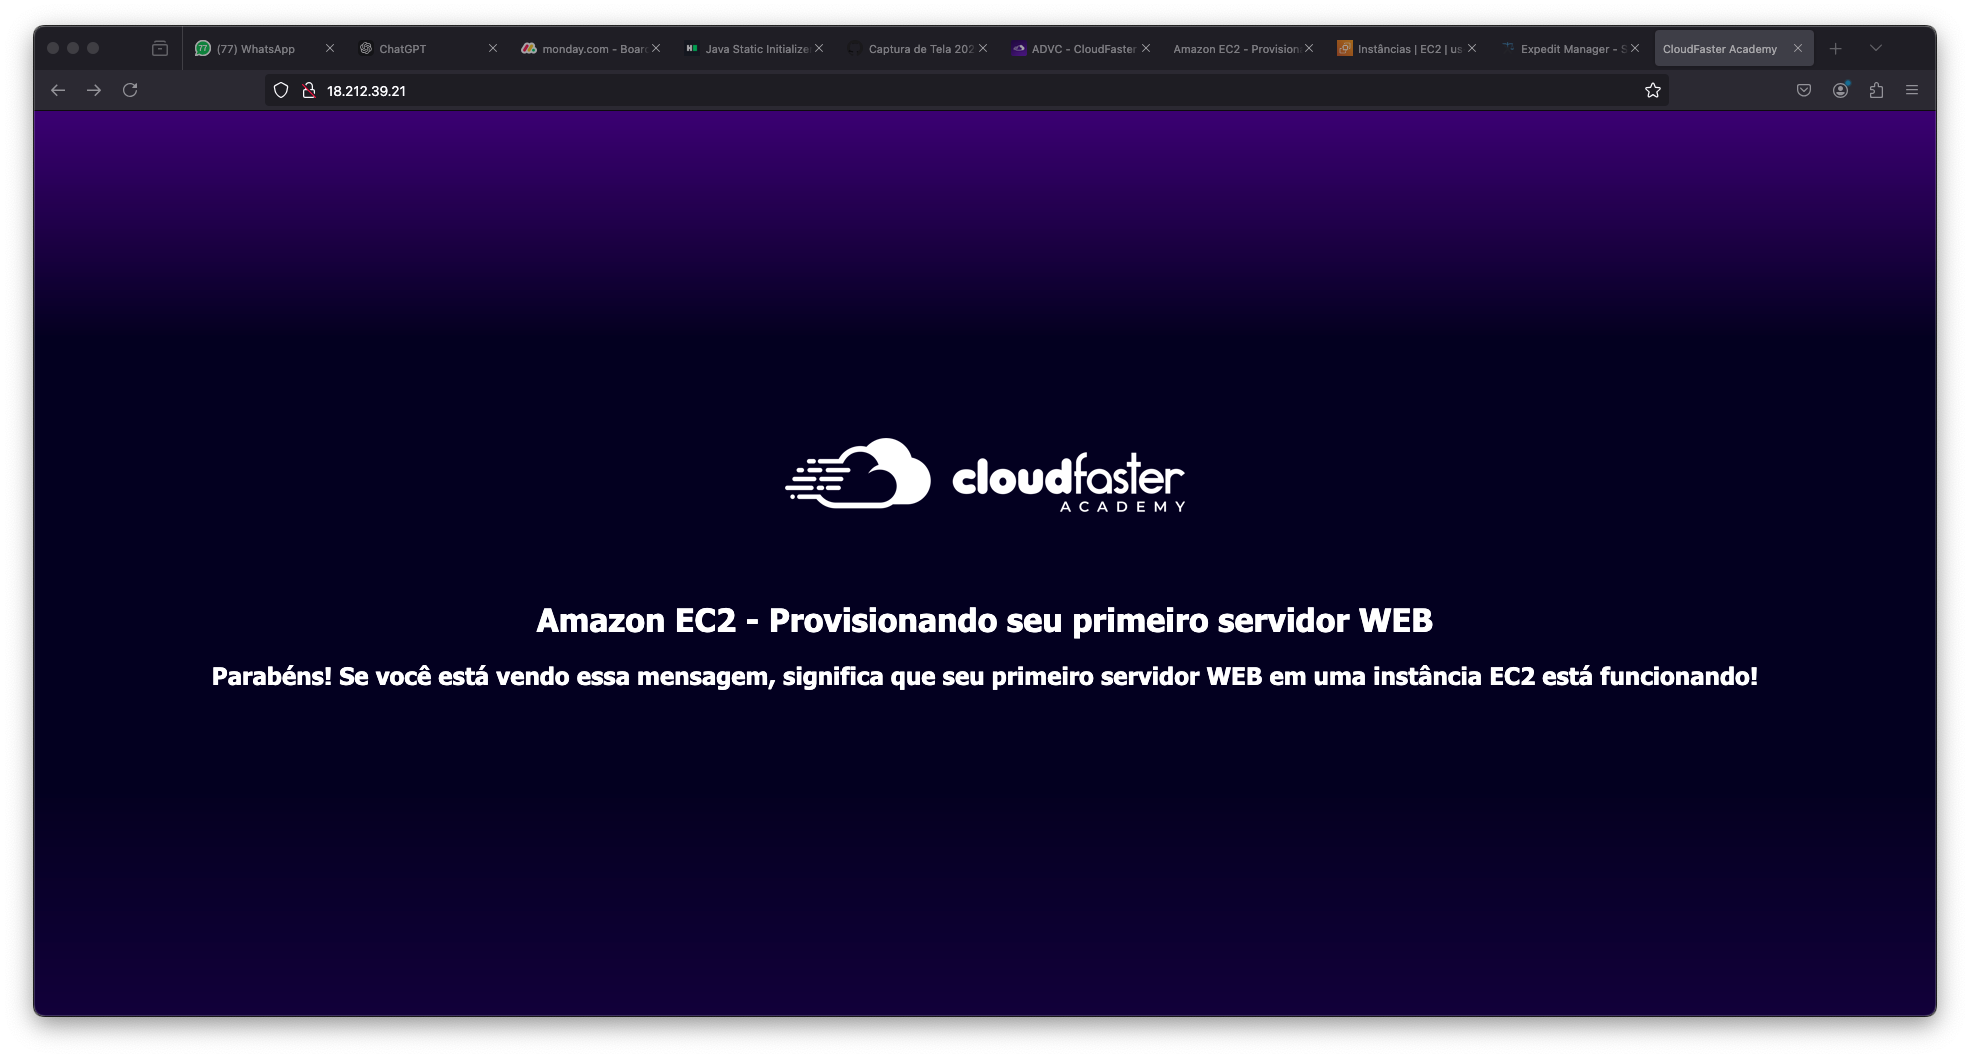
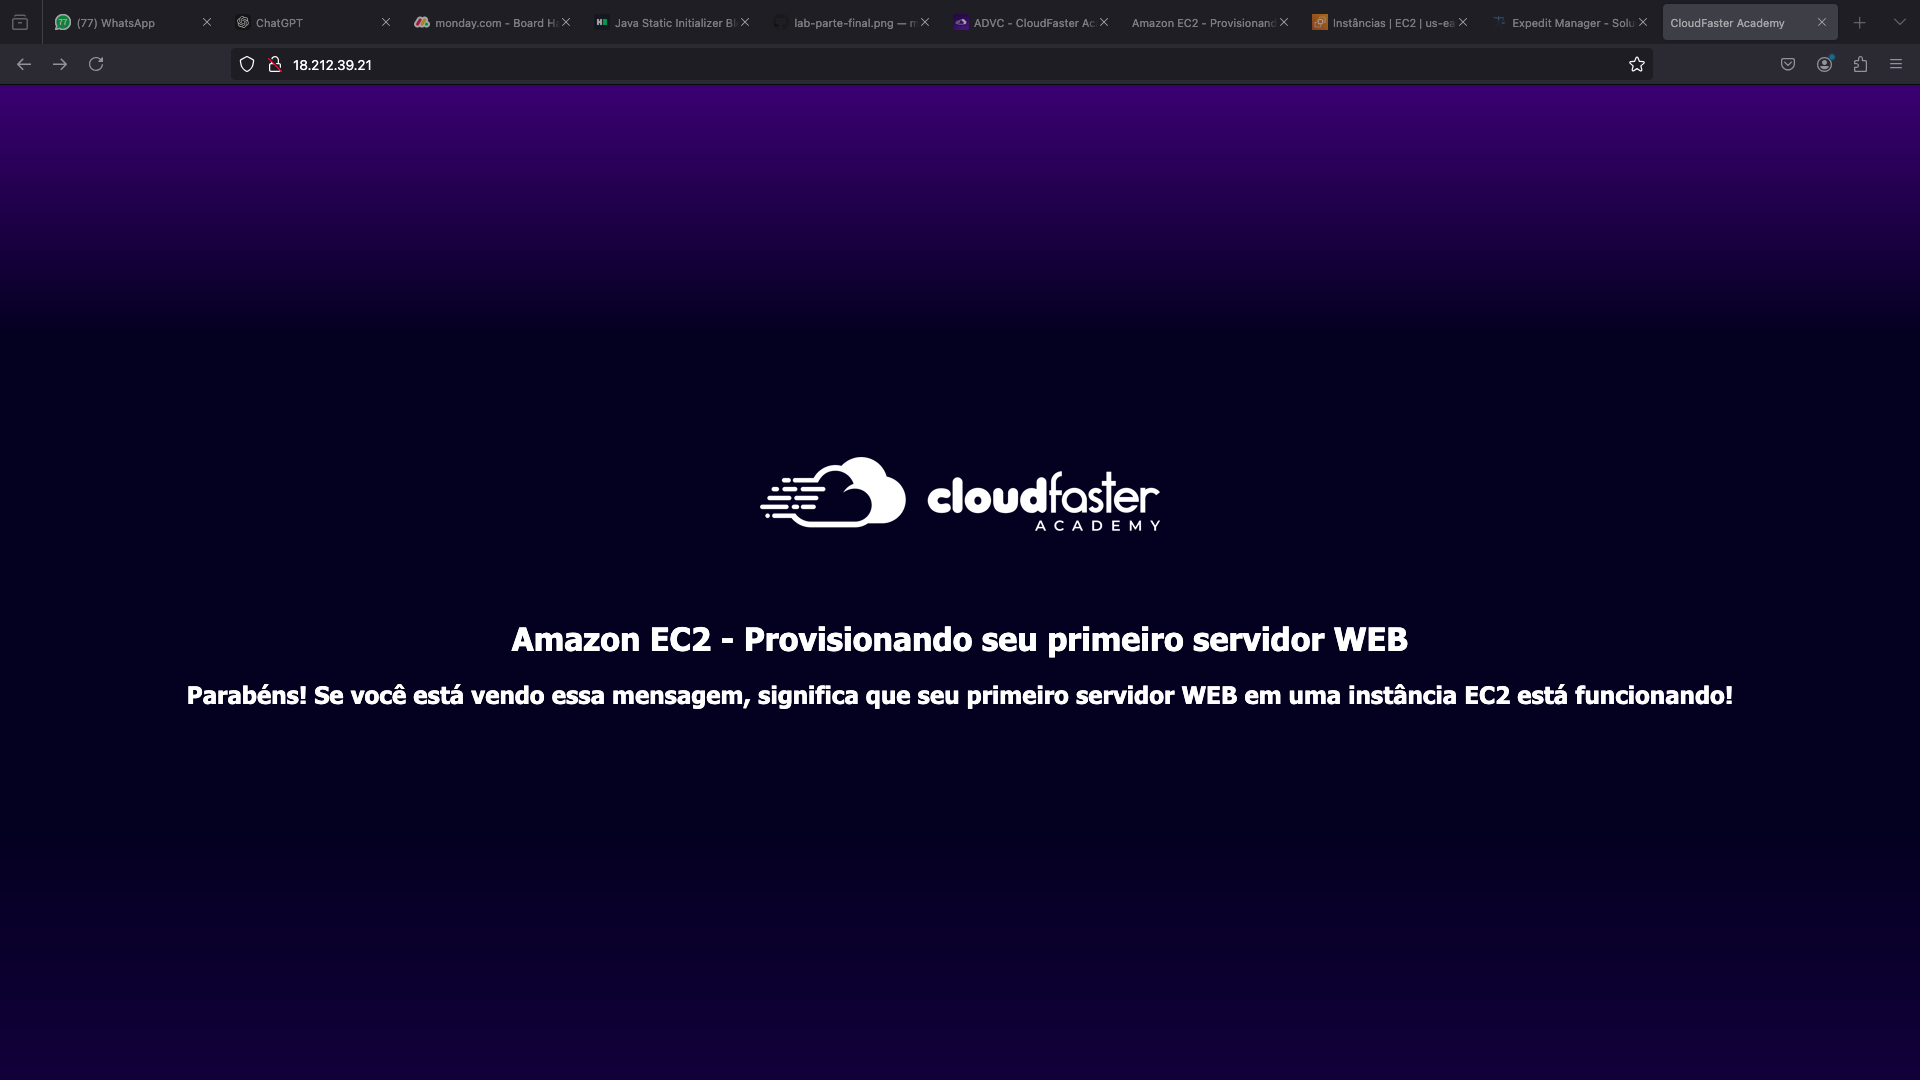
feat: add new EBS lab

Changed region(s): [[0.0, 0.0, 1.0, 1.0], [0.0938, 0.5614, 0.9062, 0.655], [0.4062, 0.4055, 0.625, 0.4991]]

diff --git a/labs/EBS/Criando-seu-primeiro-volume-EBS/README.md b/labs/EBS/Criando-seu-primeiro-volume-EBS/README.md
@@ -1,0 +1,5 @@
+<h1 align=center> Amazon EBS - Criando seu primeiro volume EBS </h1>
+
+<div align=center>
+    <img width="800px" src="./../../../assets/imgs/labs/EBS/lab-resultado.png">
+</div>
